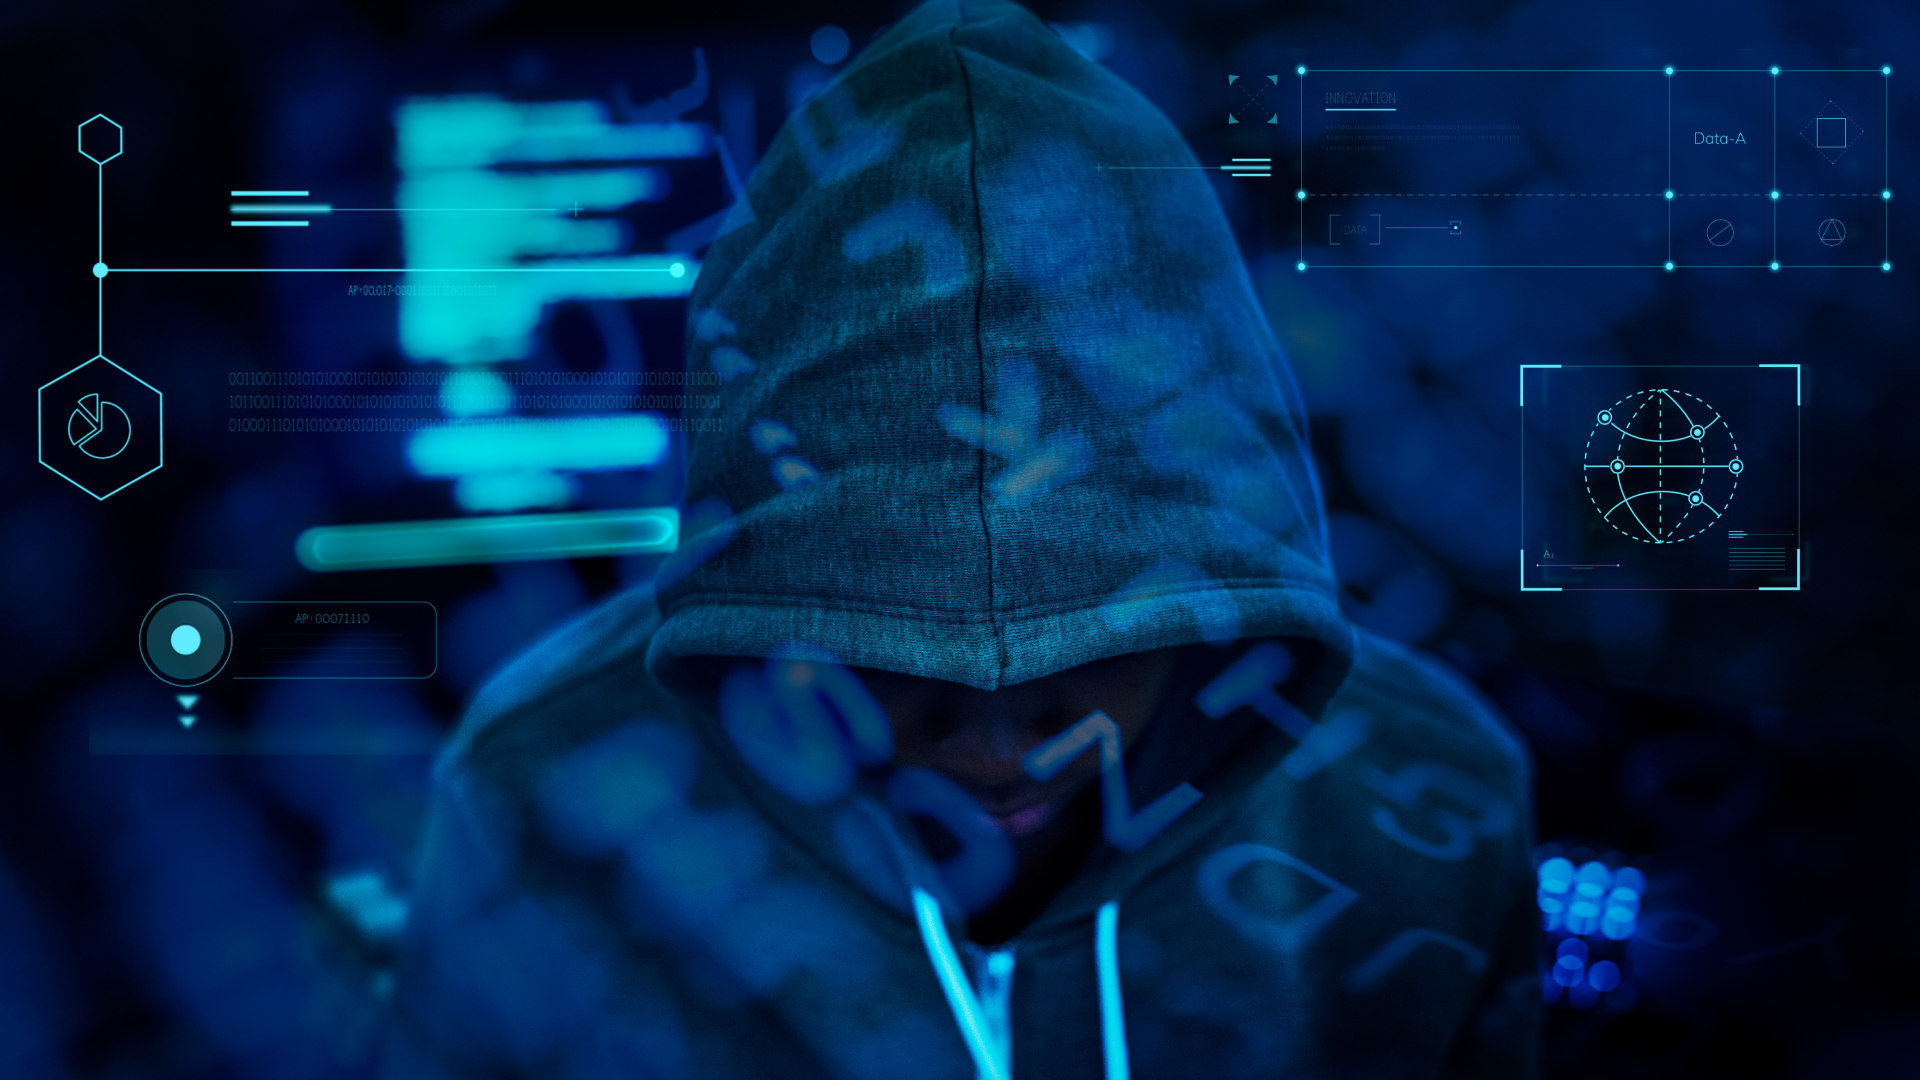
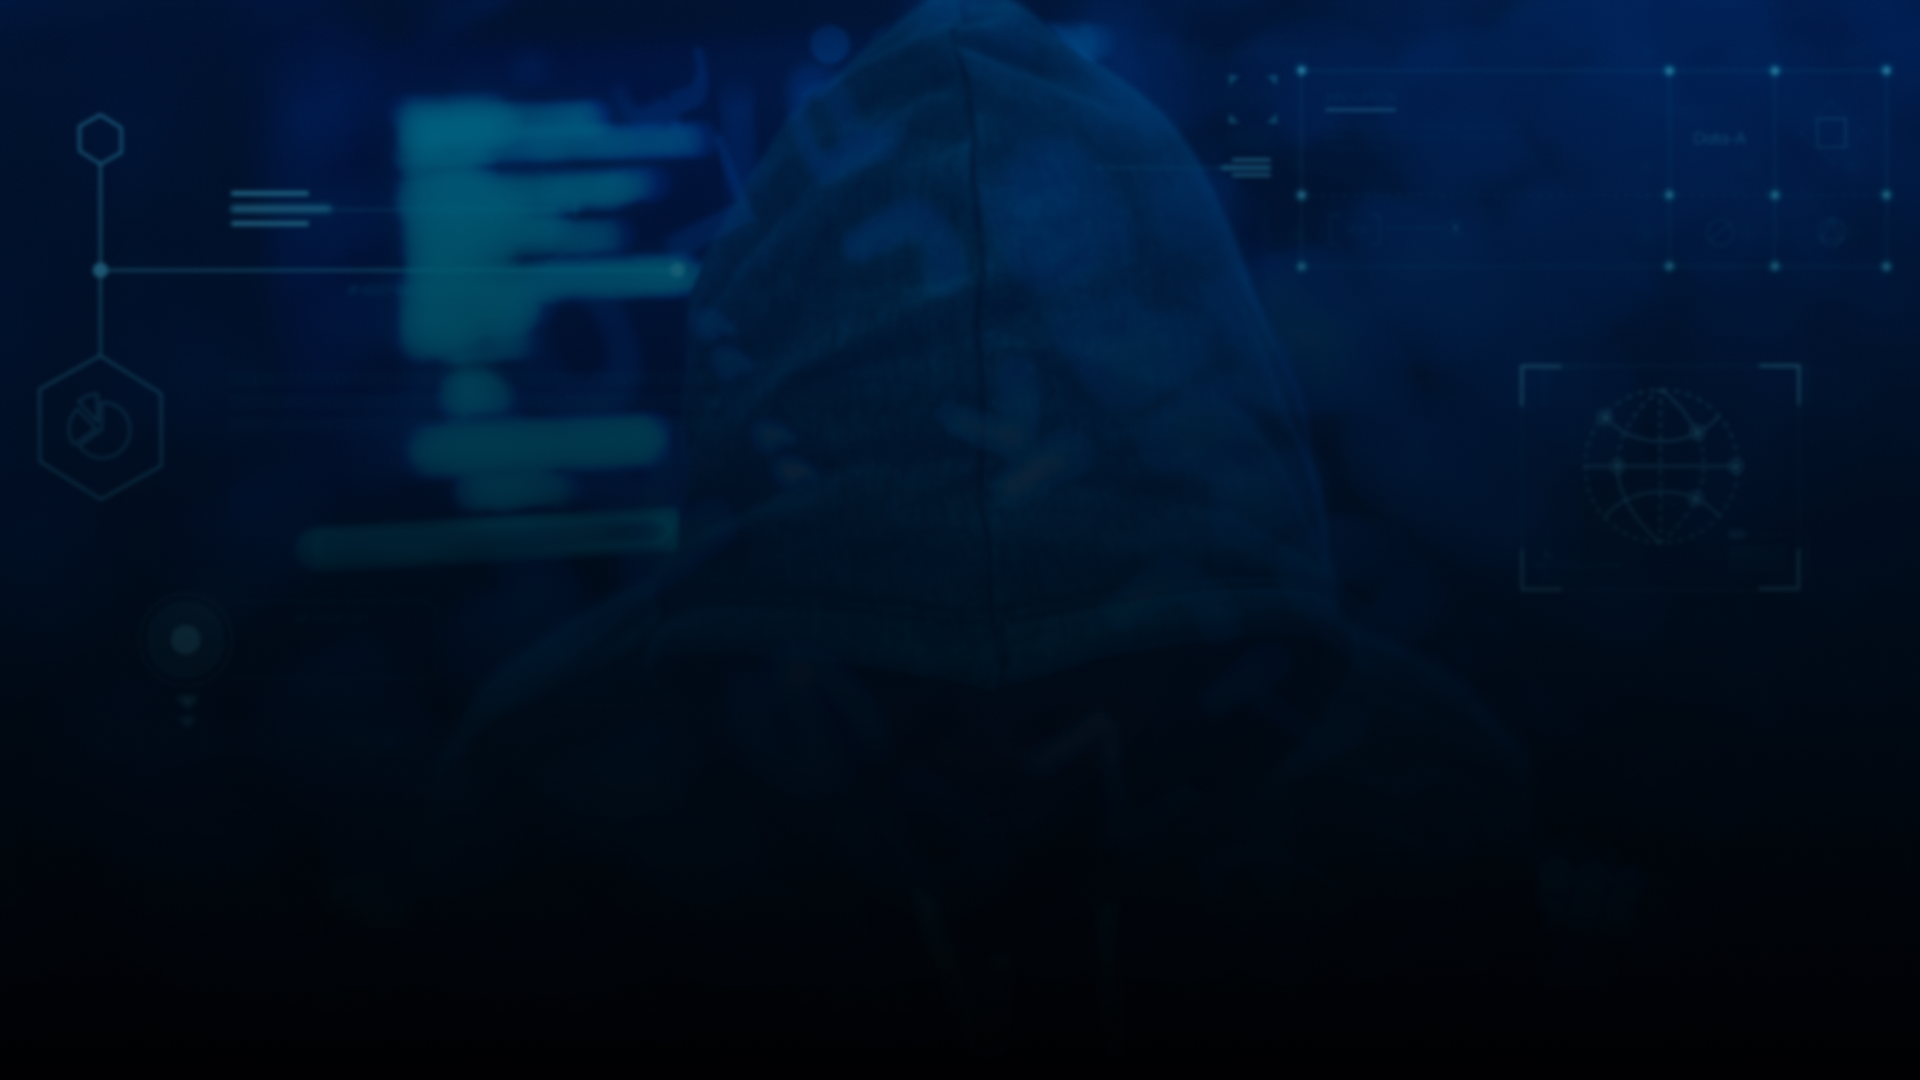
layers working with some problems

diff --git a/src/index.html b/src/index.html
@@ -10,25 +10,30 @@
   </head>
 
   <body>
-    <section class="hero-layer-one">
-      <div class="hero-layer-two">
-        <div class="hero-layer-three flex flex-col">
-          <div class="z-30">
-            <ul class="navbar font-semibold text-3xl">
-              <li class="nav_li"><a href="#">Home</a></li>
-              <li class="nav_li"><a href="#">About</a></li>
-              <li class="nav_li"><a href="#">Agenda</a></li>
-              <li class="nav_li"><a href="#">Speakers</a></li>
-              <li class="nav_li"><a href="#">FAQ</a></li>
-              <li class="nav_li"><a href="#">Contact</a></li>
-            </ul>
-          </div>
-          <div class="flex items-center flex-col space-y-10">
-            <img src="assets/logo/Shellmates_logo.png" alt="Shellmates logo" class="hero-logo" >
-            <h1 class="font-righteous mt-5 text-7xl" style="margin-top:20px;font-size:4.5rem">Infosec Week Event</h1>
-            <h2 class="font-righteous text-5xl" style="font-size:3rem">By Shellmates Club</h2>
-            <p class="font-raleway text-2xl" style="margin-top:34px;font-size:1.5rem">02-07 April 2022 - Online</p>
-            <img onclick="window.scrollTo(0,window.innerHeight)" src="assets/logo/Scroll.png" alt="Scroll" style="margin-top: 60px;cursor:pointer;flex:center;">
+    <section class="flex flex-col relative justify-center text-center">
+      <div class="hero-layer-one">
+        <div class="hero-layer-two">
+          <div class="hero-layer-three">
+            <div class=" hero-content absolute ">
+              <div>
+                <ul class="navbar font-semibold text-2xl">
+                  <li class="nav_li"><a href="#">Home</a></li>
+                  <li class="nav_li"><a href="#">About</a></li>
+                  <li class="nav_li"><a href="#">Agenda</a></li>
+                  <li class="nav_li"><a href="#">Speakers</a></li>
+                  <li class="nav_li"><a href="#">FAQ</a></li>
+                  <li class="nav_li"><a href="#">Contact</a></li>
+                  <li class="nav_li text-[#A3770D]"><a href="#">Register Now</a></li>
+                </ul>
+              </div>
+              <div class="flex items-center flex-col space-y-10">
+                <img src="assets/logo/Shellmates_logo.png" alt="Shellmates logo" class="hero-logo" >
+                <h1 class="font-righteous mt-5 text-7xl" style="margin-top:20px;font-size:4.5rem">Infosec Week Event</h1>
+                <h2 class="font-righteous text-5xl" style="font-size:3rem">By Shellmates Club</h2>
+                <p class="font-raleway text-2xl" style="margin-top:34px;font-size:1.5rem">02-07 April 2022 - Online</p>
+                <img onclick="window.scrollTo(0,window.innerHeight)" src="assets/logo/Scroll.png" alt="Scroll" style="margin-top: 60px;cursor:pointer;flex:center;">
+              </div>
+            </div>
           </div>
         </div>
       </div>
@@ -64,14 +69,14 @@
         </div>
         <div class="about text-center">
           <p
-            class="mb-10 lg:text-xl lg:pt-0 pt-10 flex flex-row lg:w-full w-3/4 items-center justify-center mx-auto"
+            class="mb-10 lg:text-3xl lg:pt-0 pt-10 flex flex-row lg:w-full w-3/4 items-center justify-center mx-auto"
           >
             InfoSec Week is an online event dedicated to cybersecurity, it’s the
             <br />
             best way to dive deeper into it and to discover its world!
           </p>
           <p
-            class="lg:text-xl lg:pb-20 flex flex-row lg:w-full w-3/4 items-center justify-center mx-auto"
+            class="lg:text-3xl lg:pb-20 flex flex-row lg:w-full w-3/4 items-center justify-center mx-auto"
           >
             For 5 days, participants will get to attend conferences and workshops
             <br />

diff --git a/public/styles.css b/public/styles.css
@@ -504,16 +504,16 @@ Ensure the default browser behavior of the `hidden` attribute.
   }
 }
 
+.absolute{
+  position: absolute;
+}
+
 .relative{
   position: relative;
 }
 
 .isolate{
   isolation: isolate;
-}
-
-.z-30{
-  z-index: 30;
 }
 
 .mx-auto{
@@ -936,9 +936,13 @@ Ensure the default browser behavior of the `hidden` attribute.
   text-align: center;
 }
 
-.text-3xl{
-  font-size: 1.875rem;
-  line-height: 2.25rem;
+.align-middle{
+  vertical-align: middle;
+}
+
+.text-2xl{
+  font-size: 1.5rem;
+  line-height: 2rem;
 }
 
 .text-7xl{
@@ -949,11 +953,6 @@ Ensure the default browser behavior of the `hidden` attribute.
 .text-5xl{
   font-size: 3rem;
   line-height: 1;
-}
-
-.text-2xl{
-  font-size: 1.5rem;
-  line-height: 2rem;
 }
 
 .text-xl{
@@ -1031,14 +1030,14 @@ Ensure the default browser behavior of the `hidden` attribute.
   letter-spacing: 0.025em;
 }
 
-.text-white{
-  --tw-text-opacity: 1;
-  color: rgb(255 255 255 / var(--tw-text-opacity));
-}
-
 .text-\[\#A3770D\]{
   --tw-text-opacity: 1;
   color: rgb(163 119 13 / var(--tw-text-opacity));
+}
+
+.text-white{
+  --tw-text-opacity: 1;
+  color: rgb(255 255 255 / var(--tw-text-opacity));
 }
 
 .text-\[\#a3770d\]{
@@ -1207,9 +1206,9 @@ Ensure the default browser behavior of the `hidden` attribute.
     background: linear-gradient(180deg, #00172a 0%, rgba(0, 23, 42, 0) 326.31%);
   }
 
-  .shadow-top-down::before {
-    top: 8px;
-  }
+  /* .shadow-top-down::before {
+      top: 8px;
+    } */
 
   .shadow-top-down::after {
     bottom: -35px;
@@ -1264,6 +1263,10 @@ Ensure the default browser behavior of the `hidden` attribute.
 
 /* navbar */
 
+.navbar :nth-child(n+1) {
+  margin-left: 15px;
+}
+
 .nav_li {
   display: inline;
   padding: 10px;
@@ -1290,28 +1293,30 @@ Ensure the default browser behavior of the `hidden` attribute.
   text-align: center;
   justify-content: center;
   background-size: cover;
-  /* background: linear-gradient(180deg, #010103 0%, rgba(0, 23, 42, 0) 100%); */
-  /* transform: matrix(1, 0, 0, -1, 0, 0); */
-  /*display: flex;*/
 }
 
 .hero-layer-two{
   content: "";
   position: absolute;
   width: 100%;
-  height: 103%;
-  background: linear-gradient(180deg, #010103 0%, rgba(0, 23, 42, 0) 100%);
-  transform: matrix(1, 0, 0, -1, 0, 0);
+  height: 100%;
+  background: linear-gradient(180deg, rgba(1, 35, 90, 0.5) 0%, rgba(0, 0, 0, 0.9) 100%);
+  -webkit-backdrop-filter: blur(5px);
+          backdrop-filter: blur(5px);
 }
 
 .hero-layer-three{
   content: "";
   position: absolute;
   width: 100%;
-  height: 103%;
-  background: linear-gradient(180deg, rgba(1, 35, 90, 0.5) 0%, rgba(0, 0, 0, 0.9) 100%);
-  -webkit-backdrop-filter: blur(5px);
-          backdrop-filter: blur(5px);
+  height: 100%;
+  background: linear-gradient(180deg, #010103 0%, rgba(0, 23, 42, 0) 100%);
+  transform: matrix(1, 0, 0, -1, 0, 0);
+}
+
+.hero-content {
+  rotate: x 180deg;
+  margin-top: 12%;
 }
 
 /* end of hero Section */
@@ -1499,10 +1504,5 @@ Ensure the default browser behavior of the `hidden` attribute.
   .lg\:text-3xl{
     font-size: 1.875rem;
     line-height: 2.25rem;
-  }
-
-  .lg\:text-xl{
-    font-size: 1.25rem;
-    line-height: 1.75rem;
   }
 }

diff --git a/src/styles.css b/src/styles.css
@@ -155,9 +155,9 @@
       left: 0;
       background: linear-gradient(180deg, #00172a 0%, rgba(0, 23, 42, 0) 326.31%);
     }
-    .shadow-top-down::before {
+    /* .shadow-top-down::before {
       top: 8px;
-    }
+    } */
     .shadow-top-down::after {
       bottom: -35px;
     }
@@ -207,6 +207,11 @@
   /* end of Faq section */
 
   /* navbar */
+
+  .navbar :nth-child(n+1) {
+    margin-left: 15px;
+  }
+
   .nav_li {
     display: inline;
     padding: 10px;
@@ -233,27 +238,31 @@
     text-align: center;
     justify-content: center;
     background-size: cover;
-    /* background: linear-gradient(180deg, #010103 0%, rgba(0, 23, 42, 0) 100%); */
-    /* transform: matrix(1, 0, 0, -1, 0, 0); */
-    /*display: flex;*/
   }
 
   .hero-layer-two{
     content: "";
     position: absolute;
     width: 100%;
-    height: 103%;
-    background: linear-gradient(180deg, #010103 0%, rgba(0, 23, 42, 0) 100%); 
-    transform: matrix(1, 0, 0, -1, 0, 0);
+    height: 100%;
+    background: linear-gradient(180deg, rgba(1, 35, 90, 0.5) 0%, rgba(0, 0, 0, 0.9) 100%);
+    backdrop-filter: blur(5px);
+
   }
 
   .hero-layer-three{
     content: "";
     position: absolute;
     width: 100%;
-    height: 103%;
-    background: linear-gradient(180deg, rgba(1, 35, 90, 0.5) 0%, rgba(0, 0, 0, 0.9) 100%);
-    backdrop-filter: blur(5px);
+    height: 100%;
+    background: linear-gradient(180deg, #010103 0%, rgba(0, 23, 42, 0) 100%); 
+    transform: matrix(1, 0, 0, -1, 0, 0);
   }
 
+  .hero-content {
+    rotate: x 180deg;
+    margin-top: 12%;
+  }
+
+  
   /* end of hero Section */
